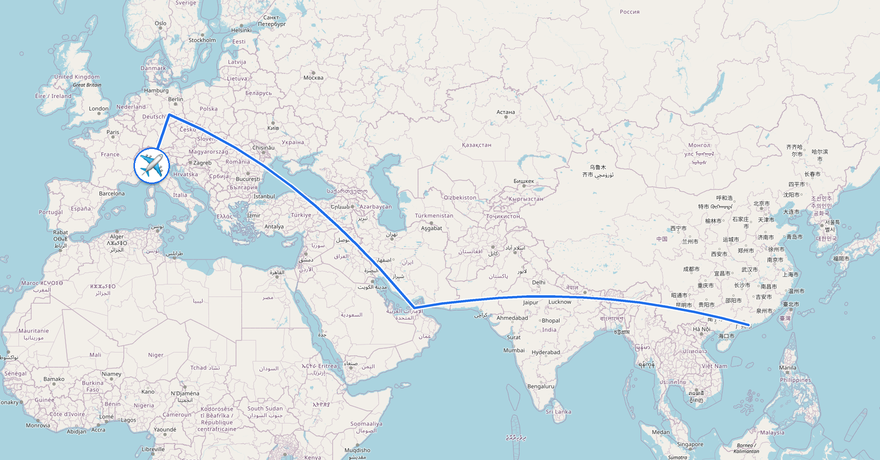
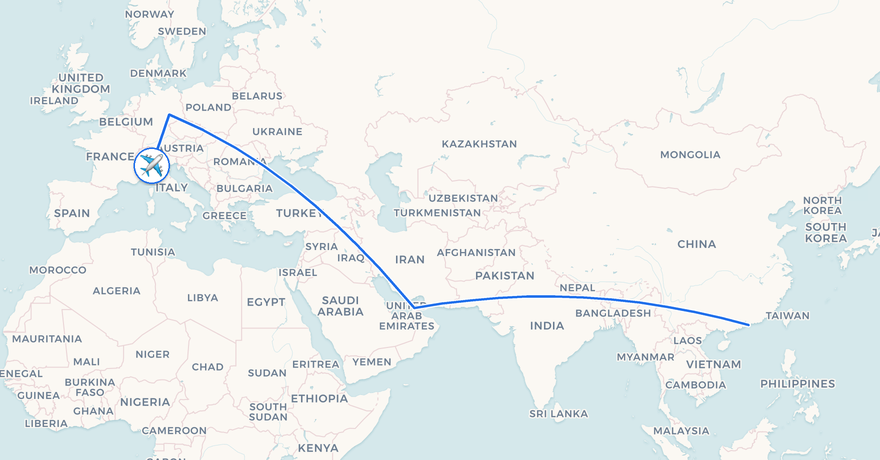
feat(maps): English-labelled retina tiles by default (#12)
OSM's default style labels places in the local script (Hebrew, Arabic,
Chinese...) and only serves standard-DPI tiles, so rendered maps looked
blurry and unreadable to most users. Default to CARTO's voyager basemap:
English-first labels, @user retina tiles (tile_size 512), with attribution
in the README. Any XYZ server remains configurable via OSM_TILE_URL +
the new MAP_TILE_SIZE. README images regenerated.

diff --git a/src/parcel_tracker/config.py b/src/parcel_tracker/config.py
@@ -60,8 +60,11 @@ class Config:
     admin_user_ids: frozenset[int] = field(default_factory=frozenset)
 
     maps_enabled: bool = True
-    osm_tile_url: str = "https://tile.openstreetmap.org/{z}/{x}/{y}.png"
-    map_user_agent: str = "parcel-tracker-bot/0.2 (+self-hosted; OSM tiles)"
+    # CARTO voyager @2x: English-first labels, retina tiles. Any XYZ server can
+    # be set via OSM_TILE_URL (set MAP_TILE_SIZE=256 for standard-DPI servers).
+    osm_tile_url: str = "https://basemaps.cartocdn.com/rastertiles/voyager/{z}/{x}/{y}@2x.png"
+    map_tile_size: int = 512
+    map_user_agent: str = "parcel-tracker-bot/0.2 (+self-hosted; map tiles)"
 
     @classmethod
     def from_env(cls, *, load_dotenv_file: bool = True) -> Config:  # noqa: C901
@@ -144,10 +147,12 @@ class Config:
             admin_user_ids=admin_ids,
             maps_enabled=_bool_env("MAPS_ENABLED", True),
             osm_tile_url=os.getenv(
-                "OSM_TILE_URL", "https://tile.openstreetmap.org/{z}/{x}/{y}.png"
+                "OSM_TILE_URL",
+                "https://basemaps.cartocdn.com/rastertiles/voyager/{z}/{x}/{y}@2x.png",
             ),
+            map_tile_size=_int_env("MAP_TILE_SIZE", 512),
             map_user_agent=os.getenv(
-                "MAP_USER_AGENT", "parcel-tracker-bot/0.2 (+self-hosted; OSM tiles)"
+                "MAP_USER_AGENT", "parcel-tracker-bot/0.2 (+self-hosted; map tiles)"
             ),
         )
 

diff --git a/src/parcel_tracker/maps/renderer.py b/src/parcel_tracker/maps/renderer.py
@@ -1,4 +1,4 @@
-"""Render a static map PNG with a transport-mode marker. OSM tiles, no account."""
+"""Render a static map PNG with a transport-mode marker. Public XYZ tiles, no account."""
 
 from __future__ import annotations
 
@@ -11,7 +11,11 @@ from PIL import Image
 from staticmap import IconMarker, Line, StaticMap
 
 _MARKERS_DIR = Path(__file__).parent / "data" / "markers"
-_TILE_URL = "https://tile.openstreetmap.org/{z}/{x}/{y}.png"
+# CARTO voyager: English-first labels and @2x retina tiles (crisp text at any
+# canvas size). OSM's default style labels places in the local script/language.
+# Requires attribution: (c) OpenStreetMap contributors (c) CARTO.
+_TILE_URL = "https://basemaps.cartocdn.com/rastertiles/voyager/{z}/{x}/{y}@2x.png"
+_TILE_SIZE = 512  # @2x tiles are 512px; must match the url_template variant
 _VALID_MODES = {"plane", "ship", "train", "truck", "parcel"}
 
 _EARTH_RADIUS_KM = 6371.0
@@ -94,12 +98,14 @@ class MapRenderer:
         height: int = 400,
         zoom: int = 6,
         tile_url: str = _TILE_URL,
+        tile_size: int = _TILE_SIZE,
     ) -> None:
         self._ua = user_agent
         self._w = width
         self._h = height
         self._zoom = zoom
         self._tile_url = tile_url
+        self._tile_size = tile_size
 
     def _marker_path(self, mode: str) -> str:
         chosen = mode if mode in _VALID_MODES else "parcel"
@@ -110,6 +116,7 @@ class MapRenderer:
             self._w * _SUPERSAMPLE,
             self._h * _SUPERSAMPLE,
             url_template=self._tile_url,
+            tile_size=self._tile_size,
             headers={"User-Agent": self._ua},
         )
 

diff --git a/tests/maps/test_renderer_quality.py b/tests/maps/test_renderer_quality.py
@@ -68,6 +68,17 @@ def test_render_route_marker_anchored_at_icon_center() -> None:
     assert icon_cls.call_args.args[2:] == expected
 
 
+def test_default_tiles_are_english_labelled_retina() -> None:
+    smap_cls, _, _, _ = _patched_renderer()
+    r = MapRenderer(user_agent="ua")
+    r.render_route([MILAN, SHENZHEN], mode="plane")
+    kwargs = smap_cls.call_args.kwargs
+    # CARTO voyager: English-first labels; @2x + tile_size 512 for crisp output
+    assert "cartocdn.com" in kwargs["url_template"]
+    assert "@2x" in kwargs["url_template"]
+    assert kwargs["tile_size"] == 512
+
+
 def test_render_supersamples_with_bumped_zoom() -> None:
     smap_cls, _, _, img = _patched_renderer()
     smap = smap_cls.return_value

diff --git a/src/parcel_tracker/main.py b/src/parcel_tracker/main.py
@@ -129,7 +129,9 @@ async def build_bot_data(config: Config) -> dict[str, Any]:
         if dataset.exists():
             geocoder = Geocoder(dataset_path=dataset)
             map_renderer = MapRenderer(
-                user_agent=config.map_user_agent, tile_url=config.osm_tile_url
+                user_agent=config.map_user_agent,
+                tile_url=config.osm_tile_url,
+                tile_size=config.map_tile_size,
             )
         else:
             logger.warning("maps enabled but dataset %s missing; maps disabled", dataset)

diff --git a/README.md b/README.md
@@ -31,7 +31,7 @@ architecture so you can add national couriers without forking the project.
 - **Fine-grained notifications** — toggle per status (delivered, in transit, exception, …) per user.
 - **Self-hosted route maps** — notifications can attach a map of the parcel's journey, with the
   transport icon (plane/ship/train/truck) inferred from the checkpoint. Offline GeoNames geocoder
-  + OpenStreetMap tiles: no geocoding API, no accounts.
+  + public map tiles: no geocoding API, no accounts.
 - **Observability** — Prometheus exporter on `:9090/metrics` + structured JSON logs (structlog).
 - **i18n** — English and Italian shipped, more via PR. Per-user language via `/lang`.
 - **Hardened container** — read-only rootfs, no-new-privileges, dropped capabilities, resource limits.
@@ -69,9 +69,12 @@ icon inferred from the courier status (plane / ship / train / truck / parcel).
 | ![Intercontinental route map](docs/img/route-air.png) | ![Out-for-delivery map](docs/img/out-for-delivery.png) |
 
 Geocoding is **offline** — a bundled GeoNames `cities15000` index resolves both English and
-local city names ("Milan" and "Milano") with zero network calls — and tiles come straight from
-OpenStreetMap. No accounts, no API keys, no third-party geocoding service seeing your parcel
+local city names ("Milan" and "Milano") with zero network calls. Tiles default to CARTO's
+voyager basemap (English labels, retina `@2x`); any XYZ server works via `OSM_TILE_URL` +
+`MAP_TILE_SIZE`. No accounts, no API keys, no third-party geocoding service seeing your parcel
 data. Opt out with `MAPS_ENABLED=false`.
+
+Map tiles © [OpenStreetMap](https://www.openstreetmap.org/copyright) contributors, © [CARTO](https://carto.com/attributions).
 
 ## Documentation
 